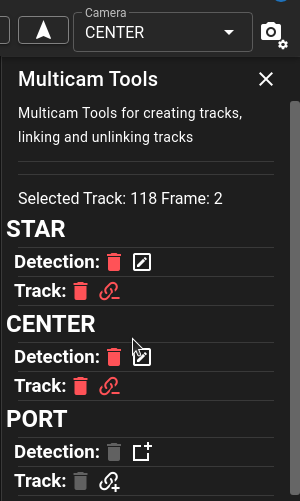
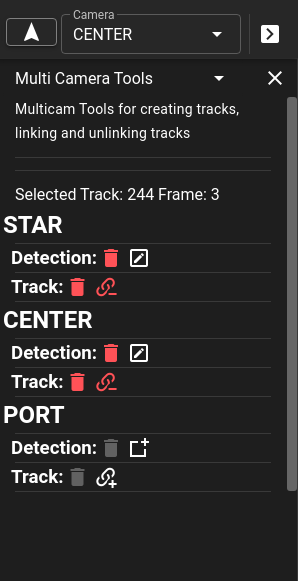
updating docs

Changed region(s): [[0.0, 0.0, 0.9664, 1.0], [0.9362, 0.0898, 1.0, 1.0], [0.7248, 0.0299, 0.755, 0.0599]]

diff --git a/client/dive-common/components/Viewer.vue b/client/dive-common/components/Viewer.vue
@@ -44,8 +44,8 @@ import clientSettingsSetup, { clientSettings } from 'dive-common/store/settings'
 import { useApi, FrameImage, DatasetType } from 'dive-common/apispec';
 import { usePrompt } from 'dive-common/vue-utilities/prompt-service';
 import context from 'dive-common/store/context';
-import MultiCamToolsVue from './MultiCamTools.vue';
 import GroupSidebarVue from './GroupSidebar.vue';
+import MultiCamToolsVue from './MultiCamTools.vue';
 
 export interface ImageDataItem {
   url: string;
@@ -546,13 +546,14 @@ export default defineComponent({
         });
         // If multiCam add Tools and remove group Tools
         if (cameraStore.camMap.size > 1) {
-          context.register({
-            component: MultiCamToolsVue,
-            description: 'Multi Camera Tools',
-          });
           context.unregister({
             description: 'Group Manager',
             component: GroupSidebarVue,
+          });
+        } else {
+          context.unregister({
+            component: MultiCamToolsVue,
+            description: 'Multi Camera Tools',
           });
         }
       } catch (err) {

diff --git a/client/dive-common/store/context.ts b/client/dive-common/store/context.ts
@@ -4,6 +4,7 @@ import Vue, { VueConstructor } from 'vue';
 import TypeThreshold from 'dive-common/components/TypeThreshold.vue';
 import ImageEnhancements from 'vue-media-annotator/components/ImageEnhancements.vue';
 import GroupSidebar from 'dive-common/components/GroupSidebar.vue';
+import MultiCamTools from 'dive-common/components/MultiCamTools.vue';
 
 Vue.use(Install);
 
@@ -34,6 +35,10 @@ const componentMap: Record<string, ComponentMapItem> = {
   GroupSidebar: {
     description: 'Group Manager',
     component: GroupSidebar,
+  },
+  MultiCamTools: {
+    description: 'Multi Camera Tools',
+    component: MultiCamTools,
   },
 };
 

diff --git a/docs/Multicamera-data.md b/docs/Multicamera-data.md
@@ -22,7 +22,7 @@ Track creation for a single camera works much in the same way it does for single
 
 ## MultiCamera Tools
 
-Next to the dropdown for the camera selection is a camera settings icon.  Clicking on that will open the multicamera tools.  These tools provide a quick view of the selected track across all cameras.
+Next to the dropdown for the camera selection is a camera settings icon.  Clicking on that will open the context menu.  Within this menu is a dropdown for selecting MultiCamTools.  These tools provide a quick view of the selected track across all cameras.
 When a track is selected it will easily show the existing detections and tracks across multiple cameras.
 
 ![MultiCam Tools](images/MultiCam/MultiCamTools.png){ width=260px align=right }
